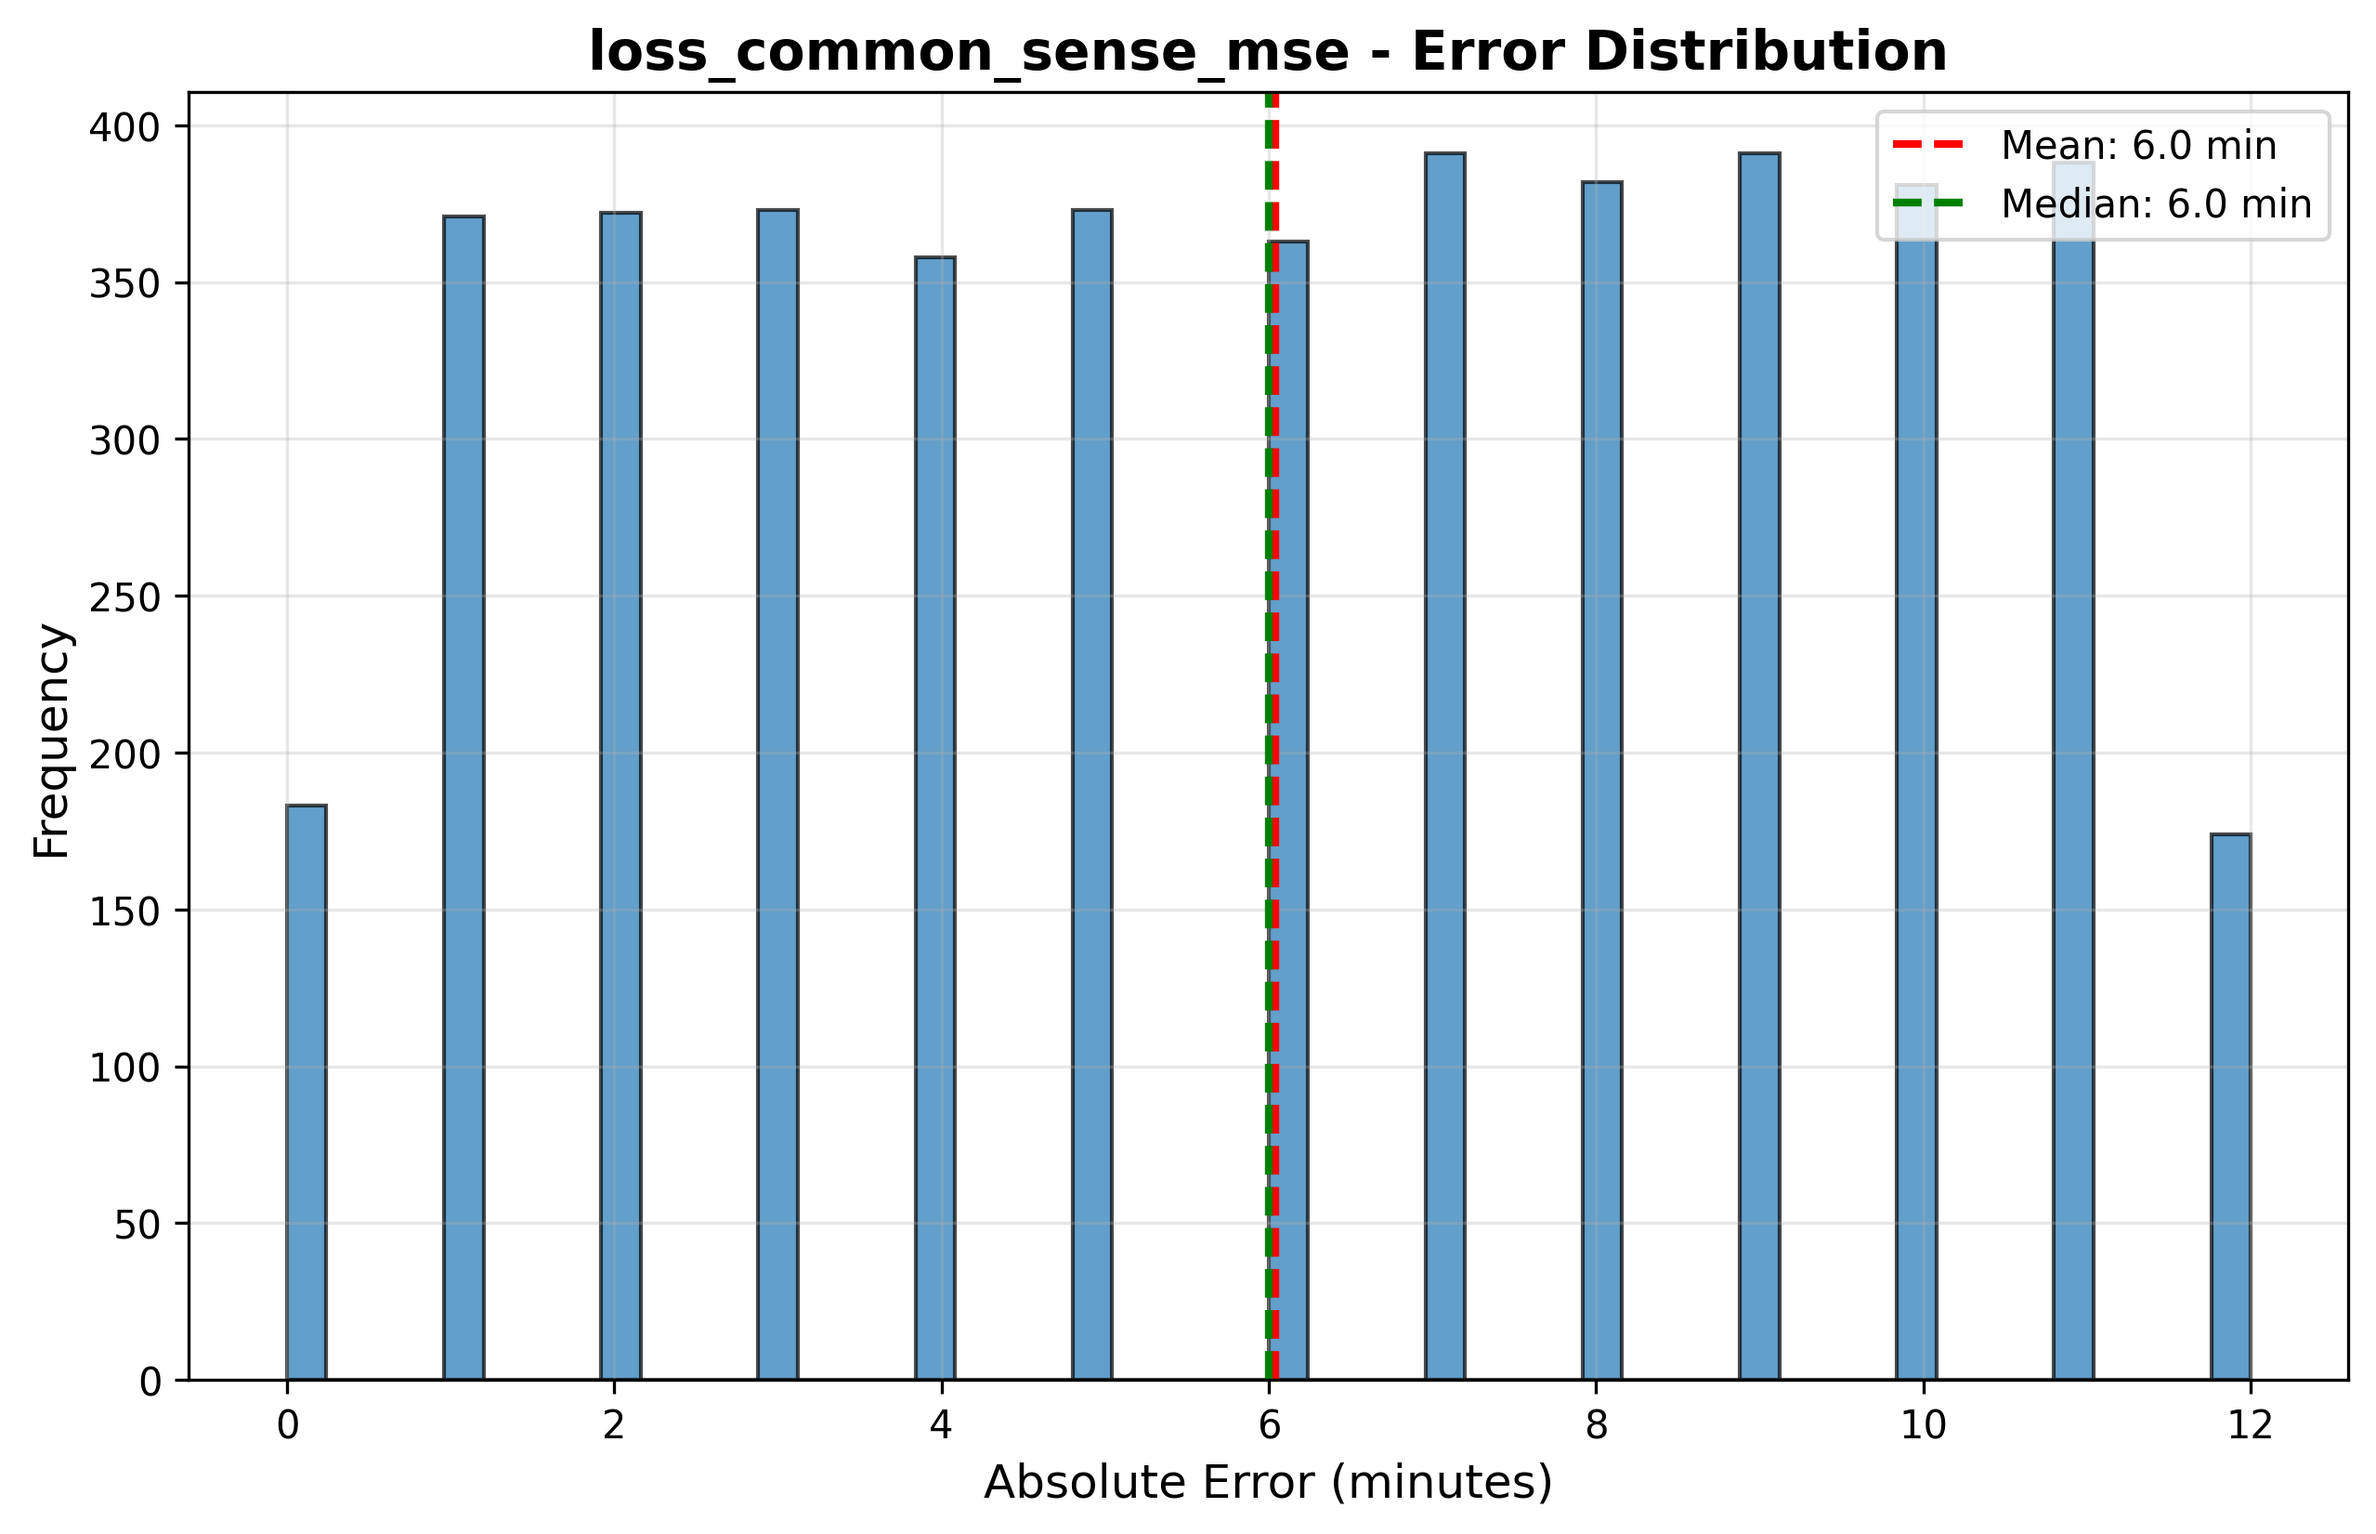
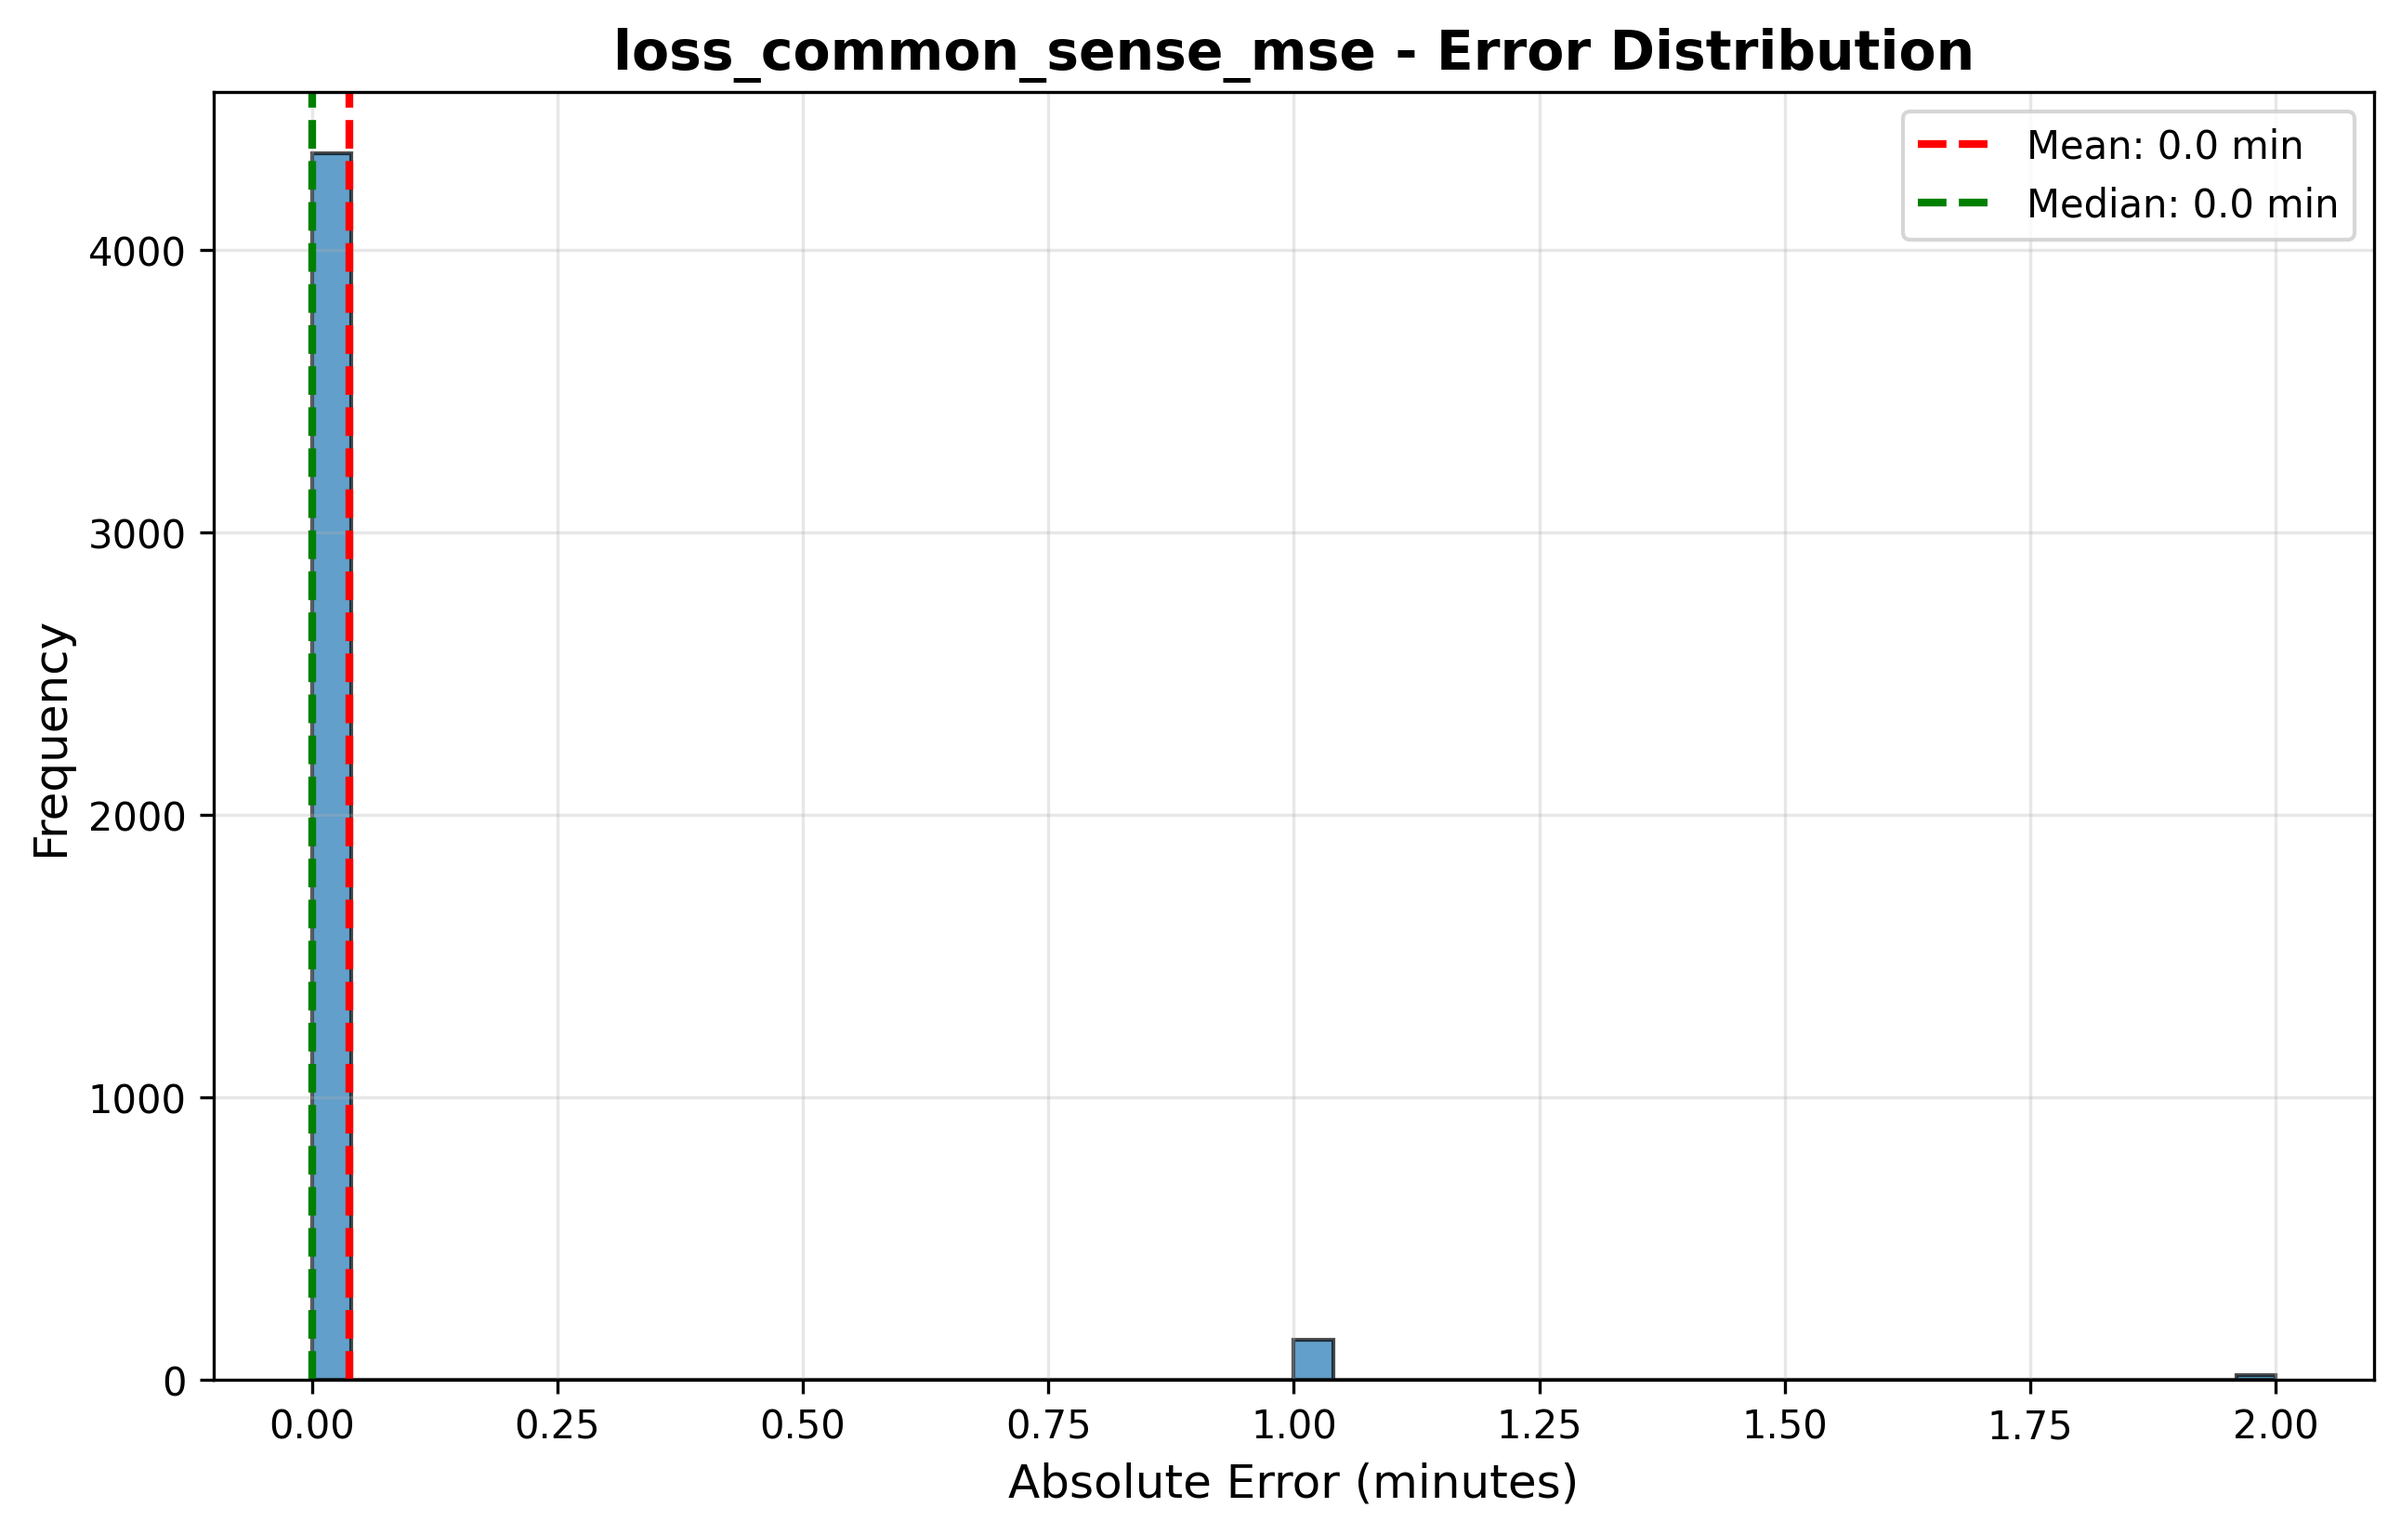
99.6% within 30 minutes for own commonsense lossfunction

diff --git a/task2_1_a.py b/task2_1_a.py
@@ -13,7 +13,7 @@ from get_dataset import download_data
 
 num_classes = 24
 batch_size = 128
-epochs = 50
+epochs = 1000 # we use early stopping, so not all epochs will be used
 
 def print_metrics(pred_hours, true_hours, model_name, num_classes=24):
     """Print comprehensive evaluation metrics."""
@@ -163,37 +163,37 @@ def load_data(seed: int) -> tuple[np.ndarray, np.ndarray, np.ndarray, np.ndarray
 
     return X_train, y_train, X_val, y_val, X_test, y_test
 
+# hier
+# def build_cnn_catagorical(input_shape, num_classes):
+#     """CNN for classification (predicting classes)."""
+#     inputs = keras.Input(shape=input_shape)
+    
+#     x = Conv2D(32, (3, 3), activation='relu', padding='same')(inputs)
+#     x = Conv2D(32, (3, 3), activation='relu', padding='same')(x)
+#     x = MaxPooling2D((2, 2))(x)
+#     x = Dropout(0.25)(x)
+    
+#     x = Conv2D(64, (3, 3), activation='relu', padding='same')(x)
+#     x = Conv2D(64, (3, 3), activation='relu', padding='same')(x)
+#     x = MaxPooling2D((2, 2))(x)
+#     x = Dropout(0.25)(x)
+    
+#     x = Conv2D(128, (3, 3), activation='relu', padding='same')(x)
+#     x = MaxPooling2D((2, 2))(x)
+#     x = Dropout(0.25)(x)
+    
+#     x = Flatten()(x)
+#     x = Dense(256, activation='relu')(x)
+#     x = Dropout(0.5)(x)
+#     x = Dense(128, activation='relu')(x)
+#     x = Dropout(0.3)(x)
+
+#     outputs = Dense(num_classes, activation='softmax')(x)
+
+#     return keras.Model(inputs, outputs, name="cnn_classification")
 
 def build_cnn_catagorical(input_shape, num_classes):
-    """CNN for classification (predicting classes)."""
-    inputs = keras.Input(shape=input_shape)
-    
-    x = Conv2D(32, (3, 3), activation='relu', padding='same')(inputs)
-    x = Conv2D(32, (3, 3), activation='relu', padding='same')(x)
-    x = MaxPooling2D((2, 2))(x)
-    x = Dropout(0.25)(x)
-    
-    x = Conv2D(64, (3, 3), activation='relu', padding='same')(x)
-    x = Conv2D(64, (3, 3), activation='relu', padding='same')(x)
-    x = MaxPooling2D((2, 2))(x)
-    x = Dropout(0.25)(x)
-    
-    x = Conv2D(128, (3, 3), activation='relu', padding='same')(x)
-    x = MaxPooling2D((2, 2))(x)
-    x = Dropout(0.25)(x)
-    
-    x = Flatten()(x)
-    x = Dense(256, activation='relu')(x)
-    x = Dropout(0.5)(x)
-    x = Dense(128, activation='relu')(x)
-    x = Dropout(0.3)(x)
-
-    outputs = Dense(num_classes, activation='softmax')(x)
-
-    return keras.Model(inputs, outputs, name="cnn_classification")
-
-def build_cnn_sin_cos(input_shape):
-    """CNN for periodic regression (predicting sin/cos of time angle)."""
+    """CNN for predicting categorical values."""
     inputs = Input(shape=input_shape)
     
     # First conv block
@@ -235,10 +235,10 @@ def build_cnn_sin_cos(input_shape):
     x = Activation('relu')(x)
     x = Dropout(0.3)(x)
 
-    # Output layer: 2 nodes for cos and sin, bounded by tanh
-    outputs = Dense(2, activation='tanh')(x)
+    # Output layer: num_classes amount of nodes
+    outputs = Dense(num_classes, activation='softmax')(x)
 
-    return keras.Model(inputs, outputs, name="cnn_periodic")
+    return keras.Model(inputs, outputs, name="cnn_classification")
 
 if __name__ == "__main__":
     os.makedirs('saved_models', exist_ok=True)
@@ -290,19 +290,15 @@ if __name__ == "__main__":
                 optimizer=keras.optimizers.Adam(learning_rate=1e-3),
                 metrics=[common_sense_categories_loss,'accuracy'])
 
-
     model.summary()
 
-    # Callbacks
+    # make callbacks
     callbacks = [
         keras.callbacks.ReduceLROnPlateau(
             monitor='val_loss', patience=5, factor=0.5, verbose=1, min_lr=1e-7
         ),
-        keras.callbacks.ModelCheckpoint(
-            'saved_models/temp_best.keras', 
-            monitor='val_loss', 
-            save_best_only=True, 
-            verbose=1
+        keras.callbacks.EarlyStopping(
+            monitor='val_loss', patience=15, verbose=1, restore_best_weights=True
         )
     ]
 
@@ -312,20 +308,17 @@ if __name__ == "__main__":
             verbose=1,
             callbacks=callbacks,
             validation_data=(X_val, y_val))
-
-    # Load best model
-    model = keras.models.load_model('saved_models/temp_best.keras')
     
-    # Evaluate the model
-    pred_categorical = model.predict(X_test,verbose=0)
-
-    metrics_categorical = print_metrics(pred_categorical, y_test, model_name="common_sense_mse")
+    # evaluate the model
+    categorical_predictions = model.predict(X_test,verbose=0)
+    metrics_categorical = print_metrics(categorical_predictions, y_test, model_name="common_sense_mse")
 
     score = model.evaluate(X_test, y_test, verbose=0)
     print('Test loss:', score[0])
     print('Test common sense loss:', score[1])
     print('Test accuracy:', score[2])
 
+    # save model
     model.save('saved_models/loss_common_sense_mse.keras')
 
 
@@ -346,14 +339,16 @@ if __name__ == "__main__":
             callbacks=callbacks,
             validation_data=(X_val, y_val))
     
-    # Load best model
-    model = keras.models.load_model('saved_models/temp_best.keras')
+    # evaluate the model
+    categorical_predictions = model.predict(X_test,verbose=0)
+    metrics_categorical = print_metrics(categorical_predictions, y_test, model_name="regular_mse")
 
     score = model.evaluate(X_test, y_test, verbose=0)
     print('Test loss:', score[0])
     print('Test common sense loss:', score[1])
     print('Test accuracy:', score[2])
 
+    # save model
     model.save('saved_models/loss_mse.keras')
 
     ################ init new model
@@ -372,12 +367,14 @@ if __name__ == "__main__":
             callbacks=callbacks,
             validation_data=(X_val, y_val))
 
-    # Load best model
-    model = keras.models.load_model('saved_models/temp_best.keras')
+    # evaluate the model
+    categorical_predictions = model.predict(X_test,verbose=0)
+    metrics_categorical = print_metrics(categorical_predictions, y_test, model_name="loss_crossentropy")
 
     score = model.evaluate(X_test, y_test, verbose=0)
     print('Test loss:', score[0])
     print('Test common sense loss:', score[1])
     print('Test accuracy:', score[2])
 
+    # save model
     model.save('saved_models/loss_crossentropy.keras')
